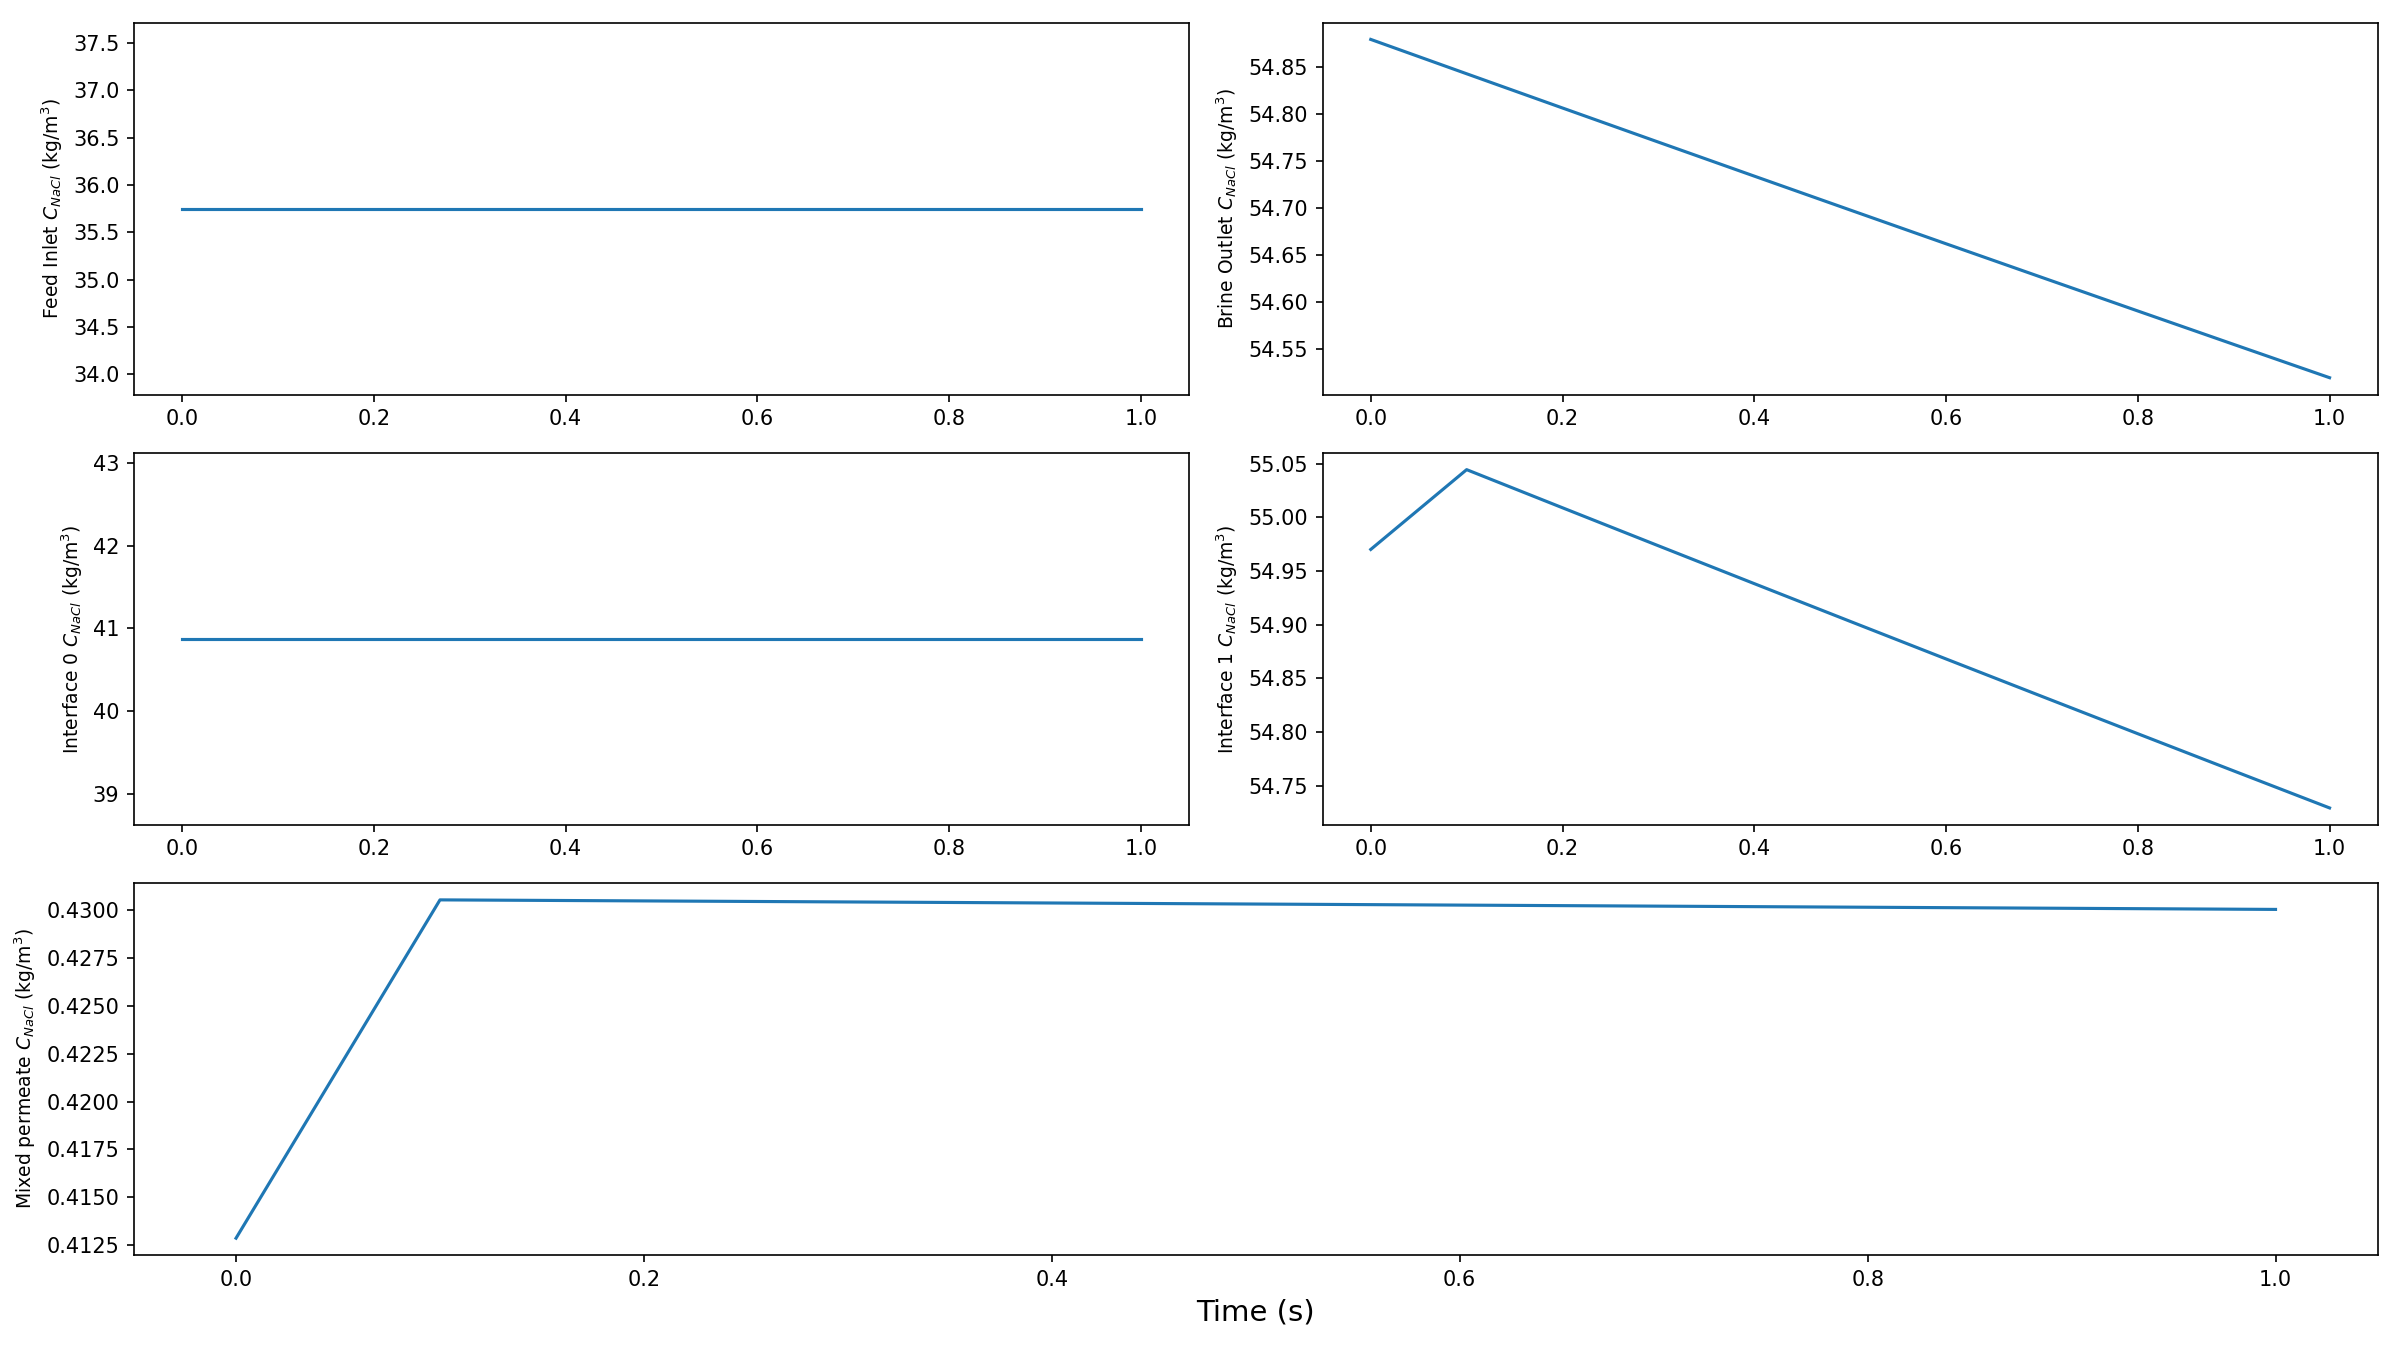
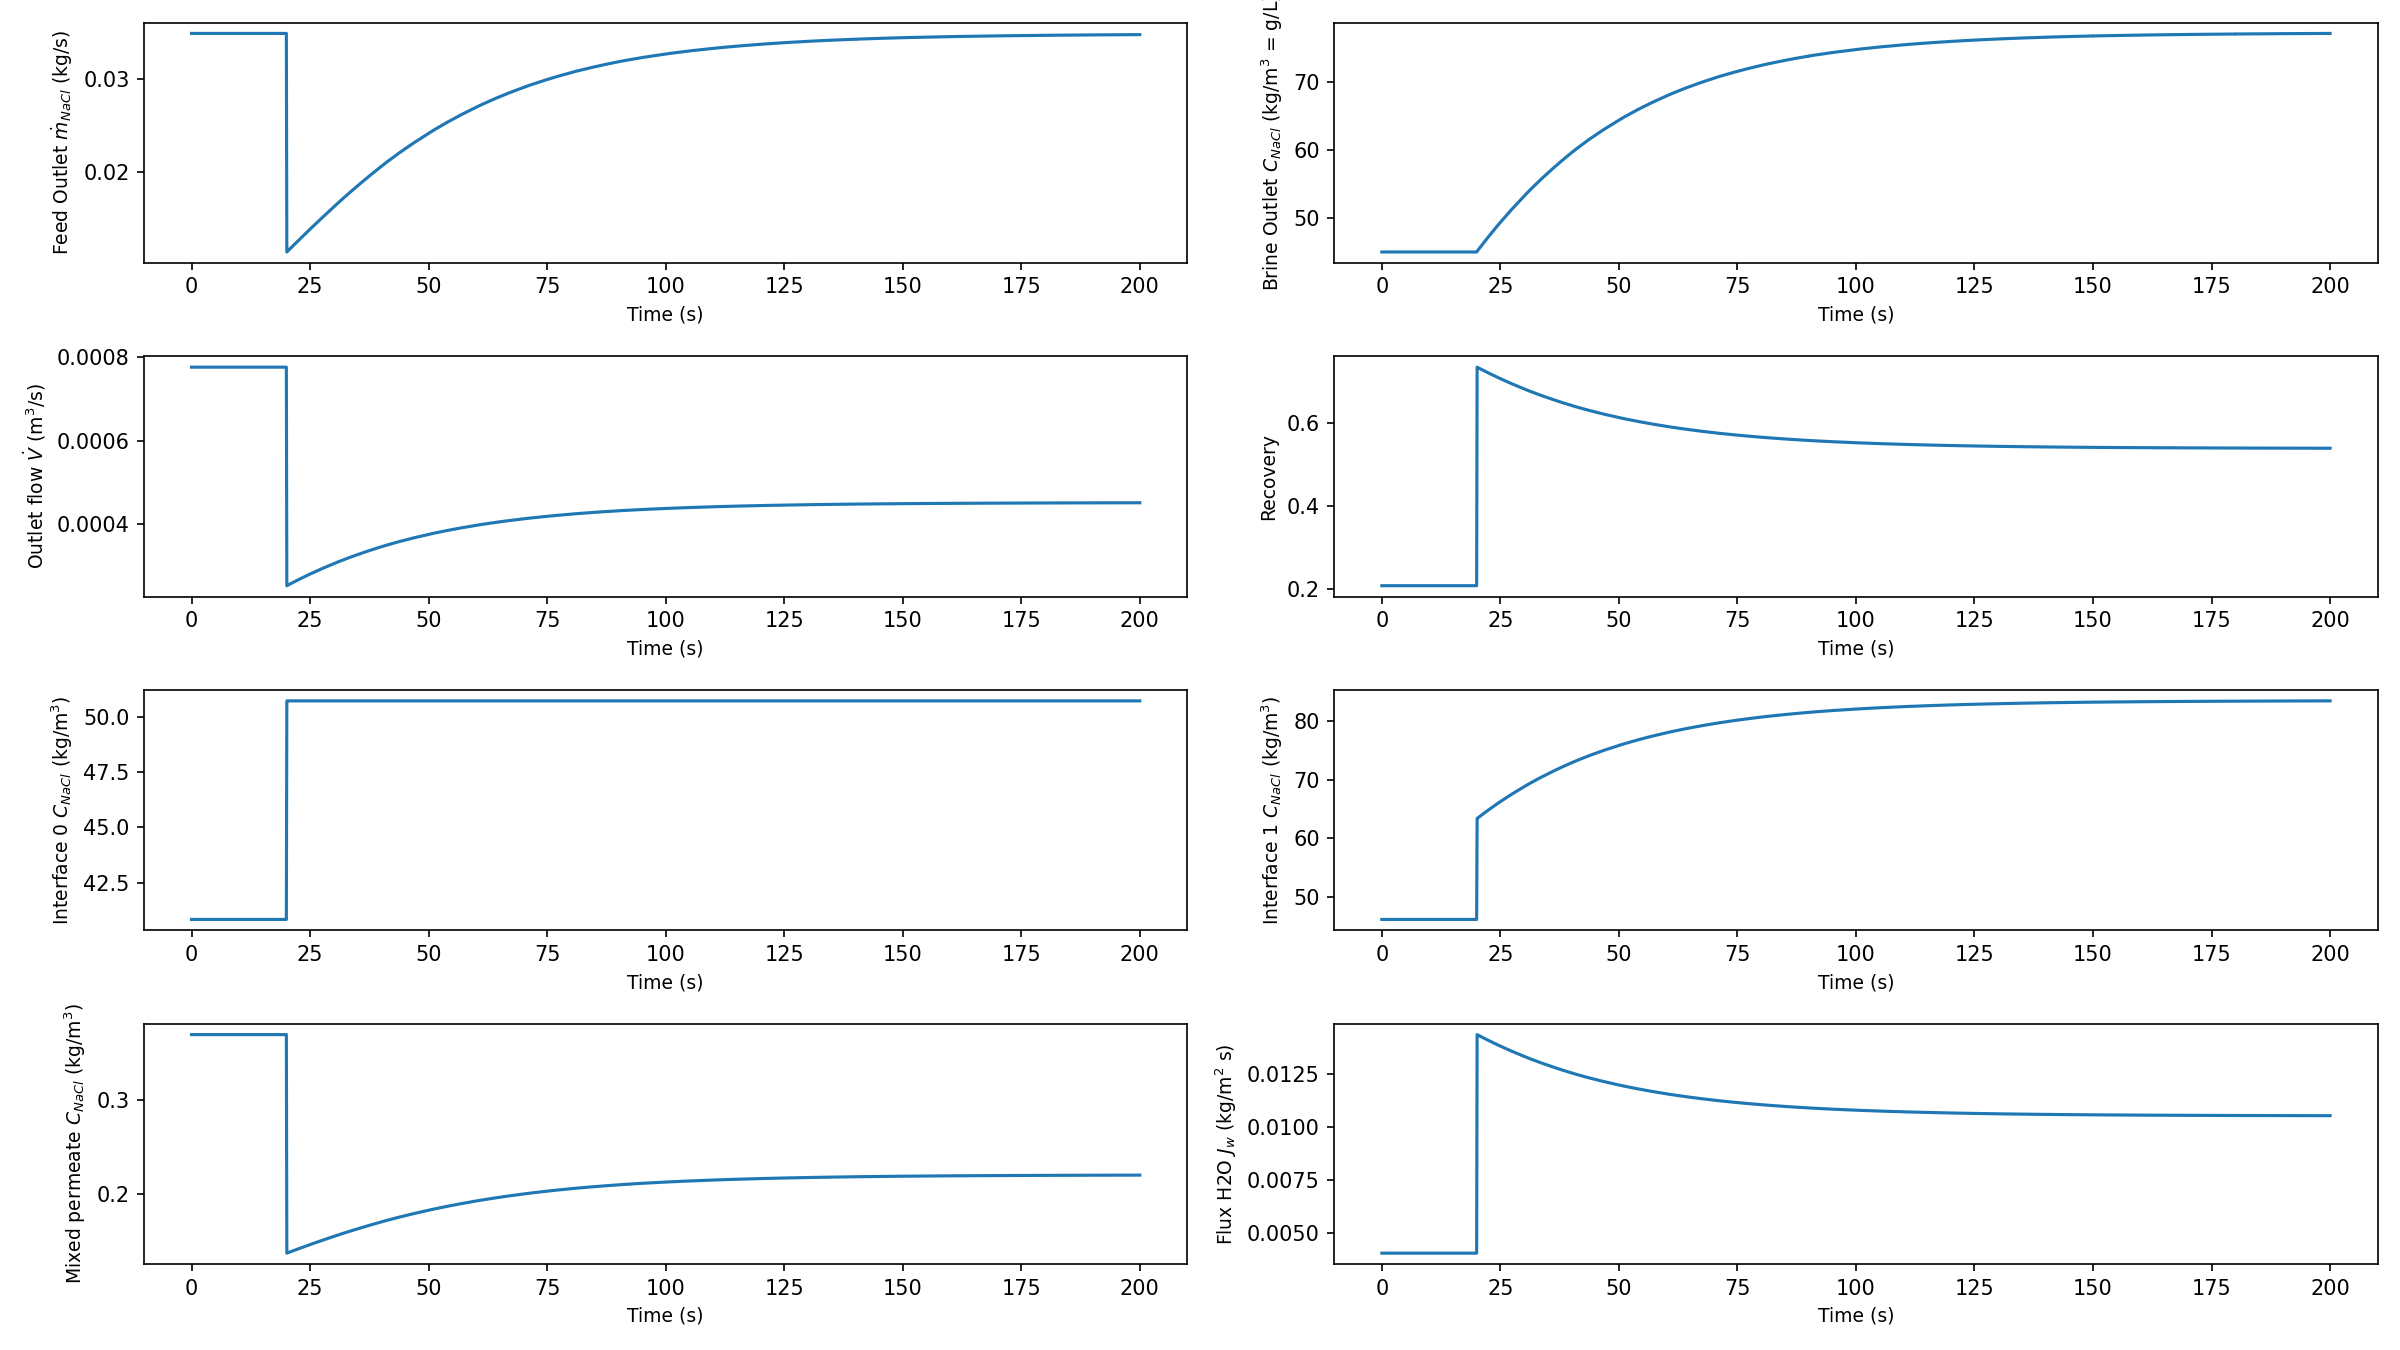
Preliminary results obtained.

diff --git a/watertap/unit_models/tests/test_reverse_osmosis_0D.py b/watertap/unit_models/tests/test_reverse_osmosis_0D.py
@@ -1008,7 +1008,8 @@ def test_RO_dynamic_instantiation():
     # m.fs = FlowsheetBlock(dynamic=True, time_set=[0, 1, 2, 3, 4, 5, 6, 7, 8, 9, 10], time_units=pyunits.s)
     m.fs = FlowsheetBlock(
         dynamic=True,
-        time_set=[0.0, 0.1, 0.2, 0.3, 0.4, 0.5, 0.6, 0.7, 0.8, 0.9, 1.0],
+        # time_set=[0.0, 0.1, 0.2, 0.3, 0.4, 0.5, 0.6, 0.7, 0.8, 0.9, 1.0, 10, 200],
+        time_set=list(np.linspace(0, 200, 21)),
         time_units=pyunits.s,
     )
 
@@ -1034,17 +1035,20 @@ def test_RO_dynamic_instantiation():
 
     m.fs.unit.inlet.flow_mass_phase_comp[:, "Liq", "NaCl"].fix(0.035)
     m.fs.unit.inlet.flow_mass_phase_comp[:, "Liq", "H2O"].fix(0.965)
-    m.fs.unit.inlet.pressure[:].fix(50e5)  # feed pressure (Pa)
+    m.fs.unit.inlet.pressure[:].fix(85e5)  # feed pressure (Pa)
+    m.fs.unit.inlet.pressure[0].fix(50e5)  # feed pressure (Pa)
+    m.fs.unit.inlet.pressure[10].fix(50e5)  # feed pressure (Pa)
+    m.fs.unit.inlet.pressure[20].fix(50e5)  # feed pressure (Pa)
 
     m.fs.unit.inlet.temperature[:].fix(298.15)  # feed temperature (K)
 
     m.fs.unit.area.fix(50)  # membrane area (m^2)
-    m.fs.unit.A_comp.fix(4.2e-12)  # membrane water permeability (m/Pa/s)
+    m.fs.unit.A_comp.fix(4.166667e-12)  # membrane water permeability (m/Pa/s)
     m.fs.unit.B_comp.fix(3.5e-8)  # membrane salt permeability (m/s)
     m.fs.unit.permeate.pressure[:].fix(101325)  # permeate pressure (Pa)
 
     m.fs.unit.feed_side.channel_height.fix(0.001)
-    m.fs.unit.feed_side.spacer_porosity.fix(0.97)
+    m.fs.unit.feed_side.spacer_porosity.fix(0.97) # 85%
     m.fs.unit.length.fix(16)
 
     m.fs.unit.feed_side.material_accumulation[:, :, :].value = 0.0
@@ -1066,7 +1070,7 @@ def test_RO_dynamic_instantiation():
 
     print("before initialize dof = ", degrees_of_freedom(m.fs.unit))
     m.fs.unit.initialize()
-    m.fs.unit.feed_side.material_accumulation[0, :, :].unfix()
+    # m.fs.unit.feed_side.material_accumulation[0, :, :].unfix()
 
     iscale.calculate_scaling_factors(m)
 
@@ -1122,26 +1126,50 @@ def test_RO_dynamic_instantiation():
 
     # print(value(m.fs.unit.feed_side.properties_out[:].flow_mass_phase_comp['Liq','H2O']))
     print(
-        "Permeate NaCl conc: ",
-        value(m.fs.unit.permeate_side[:, :].conc_mass_phase_comp["Liq", "NaCl"]),
+        "Flux H2O: ",
+        value(m.fs.unit.flux_mass_phase_comp_avg[:, "Liq", "H2O"]),
+    )
+    print(
+        "Flux NaCl: ",
+        value(m.fs.unit.flux_mass_phase_comp_avg[:, "Liq", "NaCl"]),
     )
     # assert False
     traj = results.trajectory
     time_set = m.fs.time.ordered_data()
     tf = time_set[-1]
-    print("b4 results_dict")
+    # print(str(m.fs.unit.mixed_permeate[tf].conc_mass_phase_comp["Liq", "NaCl"]))
+    # print(str(m.fs.unit.flux_mass_phase_comp_avg[tf, 'Liq', 'H2O']))
+    # print(traj.vecs)
+    # print('Flow vol:', m.fs.unit.feed_side.properties_out[:].flow_vol_phase['Liq'])
+    # print('Flow vol unit:', value(m.fs.unit.recovery_vol_phase[:, "Liq"]))
+    # assert False
+    print("1")
     results_dict = {
         "time": np.array(traj.time),
-        "feed.in.conc.NaCl": np.array(
+        "feed.out.vol": np.array( # m3/s
             traj.vecs[
                 str(
-                    m.fs.unit.feed_side.properties_in[tf].conc_mass_phase_comp[
+                    m.fs.unit.feed_side.properties_out[tf].flow_vol_phase['Liq']
+                )
+            ]
+        ),
+        "recovery": np.array( #
+            traj.vecs[
+                str(
+                    m.fs.unit.recovery_vol_phase[tf, "Liq"]
+                )
+            ]
+        ),
+        "feed.out.mass.NaCl": np.array( # kg/s
+            traj.vecs[
+                str(
+                    m.fs.unit.feed_side.properties_out[tf].flow_mass_phase_comp[
                         "Liq", "NaCl"
                     ]
                 )
             ]
         ),
-        "feed.out.conc.NaCl": np.array(
+        "feed.out.conc.NaCl": np.array( # kg/m3
             traj.vecs[
                 str(
                     m.fs.unit.feed_side.properties_out[tf].conc_mass_phase_comp[
@@ -1150,7 +1178,7 @@ def test_RO_dynamic_instantiation():
                 )
             ]
         ),
-        "feed.prop_int.0.conc.NaCl": np.array(
+        "feed.prop_int.0.conc.NaCl": np.array( # kg/m3
             traj.vecs[
                 str(
                     m.fs.unit.feed_side.properties_interface[
@@ -1159,7 +1187,7 @@ def test_RO_dynamic_instantiation():
                 )
             ]
         ),
-        "feed.prop_int.1.conc.NaCl": np.array(
+        "feed.prop_int.1.conc.NaCl": np.array( # kg/m3
             traj.vecs[
                 str(
                     m.fs.unit.feed_side.properties_interface[
@@ -1168,37 +1196,68 @@ def test_RO_dynamic_instantiation():
                 )
             ]
         ),
-        "mixed_permeate.conc.NaCl": np.array(
+        "mixed_permeate.conc.NaCl": np.array( # kg/m3
             traj.vecs[
                 str(m.fs.unit.mixed_permeate[tf].conc_mass_phase_comp["Liq", "NaCl"])
             ]
         ),
+        "flux_mass_phase_comp.H2O": 0.5 # kg/m2 s
+        * (
+            np.array(
+                traj.vecs[str(m.fs.unit.flux_mass_phase_comp[tf, 0, "Liq", "H2O"])]
+            )
+            + np.array(
+                traj.vecs[str(m.fs.unit.flux_mass_phase_comp[tf, 1, "Liq", "H2O"])]
+            )
+        ),
     }
-    # print(np.array(traj.vecs[str(m.fs.unit.feed_side.properties_out[tf].flow_mass_phase_comp['Liq','H2O'])]))
     print("after results_dict")
     for key, v in results_dict.items():
         # Turn n by 1 arrays in into vectors
         results_dict[key] = np.squeeze(v)
     time = results_dict["time"]
-    print(time)
+    # print(time)
 
     fig = plt.figure(figsize=(16, 9))
-    # ax = fig.subplots(3, 2, sharex=True)
-    plt.subplot(3, 2, 1)
-    plt.plot(time, results_dict["feed.in.conc.NaCl"])
-    plt.ylabel("Feed Inlet $C_{NaCl}$ (kg/m$^3$)", fontsize=9)
-    plt.subplot(3, 2, 2)
+    # ax = fig.subplots(4, 2, sharex=True)
+    plt.subplot(4, 2, 1)
+    plt.plot(time, results_dict["feed.out.mass.NaCl"])
+    plt.xlabel("Time (s)", fontsize=9)
+    plt.ylabel("Feed Outlet $\dot{m}_{NaCl}$ (kg/s)", fontsize=9)
+    plt.subplot(4, 2, 2)
     plt.plot(time, results_dict["feed.out.conc.NaCl"])
-    plt.ylabel("Brine Outlet $C_{NaCl}$ (kg/m$^3$)", fontsize=9)
-    plt.subplot(3, 2, 3)
+    plt.xlabel("Time (s)", fontsize=9)
+    plt.ylabel("Brine Outlet $C_{NaCl}$ (kg/m$^3$ = g/L)", fontsize=9)
+    plt.subplot(4, 2, 3)
+    plt.plot(time, results_dict["feed.out.vol"])
+    plt.xlabel("Time (s)", fontsize=9)
+    plt.ylabel("Outlet flow $\dot{V}$ (m$^3$/s)", fontsize=9)
+    plt.subplot(4, 2, 4)
+    plt.plot(time, results_dict["recovery"])
+    plt.xlabel("Time (s)", fontsize=9)
+    plt.ylabel("Recovery", fontsize=9)
+    plt.subplot(4, 2, 5)
     plt.plot(time, results_dict["feed.prop_int.0.conc.NaCl"])
+    plt.xlabel("Time (s)", fontsize=9)
     plt.ylabel("Interface 0 $C_{NaCl}$ (kg/m$^3$)", fontsize=9)
-    plt.subplot(3, 2, 4)
+    plt.subplot(4, 2, 6)
     plt.plot(time, results_dict["feed.prop_int.1.conc.NaCl"])
+    plt.xlabel("Time (s)", fontsize=9)
     plt.ylabel("Interface 1 $C_{NaCl}$ (kg/m$^3$)", fontsize=9)
-    plt.subplot(3, 1, 3)
+    plt.subplot(4, 2, 7)
     plt.plot(time, results_dict["mixed_permeate.conc.NaCl"])
+    plt.xlabel("Time (s)", fontsize=9)
     plt.ylabel("Mixed permeate $C_{NaCl}$ (kg/m$^3$)", fontsize=9)
-    plt.xlabel("Time (s)", fontsize=14)
+    plt.subplot(4, 2, 8)
+    plt.plot(time, results_dict["flux_mass_phase_comp.H2O"])
+    plt.xlabel("Time (s)", fontsize=9)
+    plt.ylabel("Flux H2O $J_w$ (kg/m$^2$ s)", fontsize=9)
     plt.tight_layout()
     plt.savefig("test_plot.png", dpi=150)
+
+    print("Accumulation and holdup")
+    m.fs.unit.feed_side.material_accumulation.display()
+    m.fs.unit.feed_side.material_holdup.display()
+    # m.fs.unit.flux_mass_phase_comp.display()
+    # m.fs.unit.mixed_permeate[190].conc_mass_phase_comp.display()
+    # m.fs.unit.mixed_permeate[200].conc_mass_phase_comp.display()
